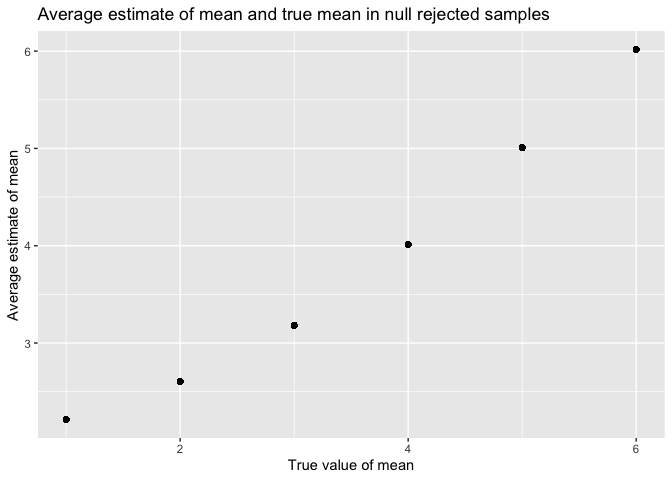
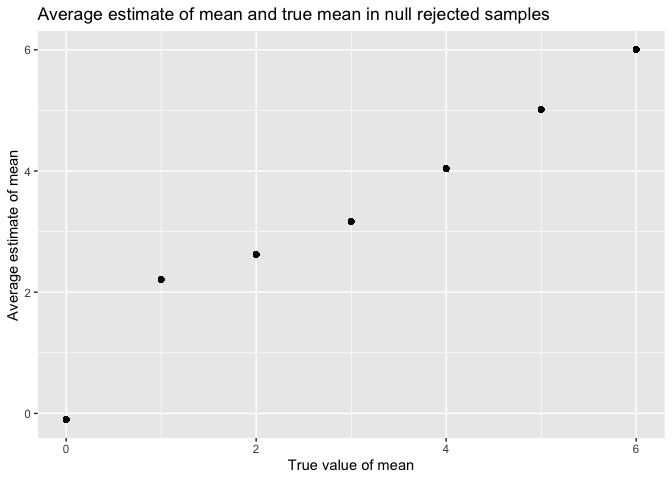
change problem 3

diff --git a/p8105_hw5_qs2261.md b/p8105_hw5_qs2261.md
@@ -139,7 +139,7 @@ ttest_mu_0 =
 
 ``` r
 ttest_result = 
- tibble(true_mean = c(1, 2, 3, 4, 5, 6)
+ tibble(true_mean = c(0, 1, 2, 3, 4, 5, 6)
         ) |> 
   mutate(
     output_list = map(.x = true_mean, ~ rerun(5000, one_samp(mu = .x))),
